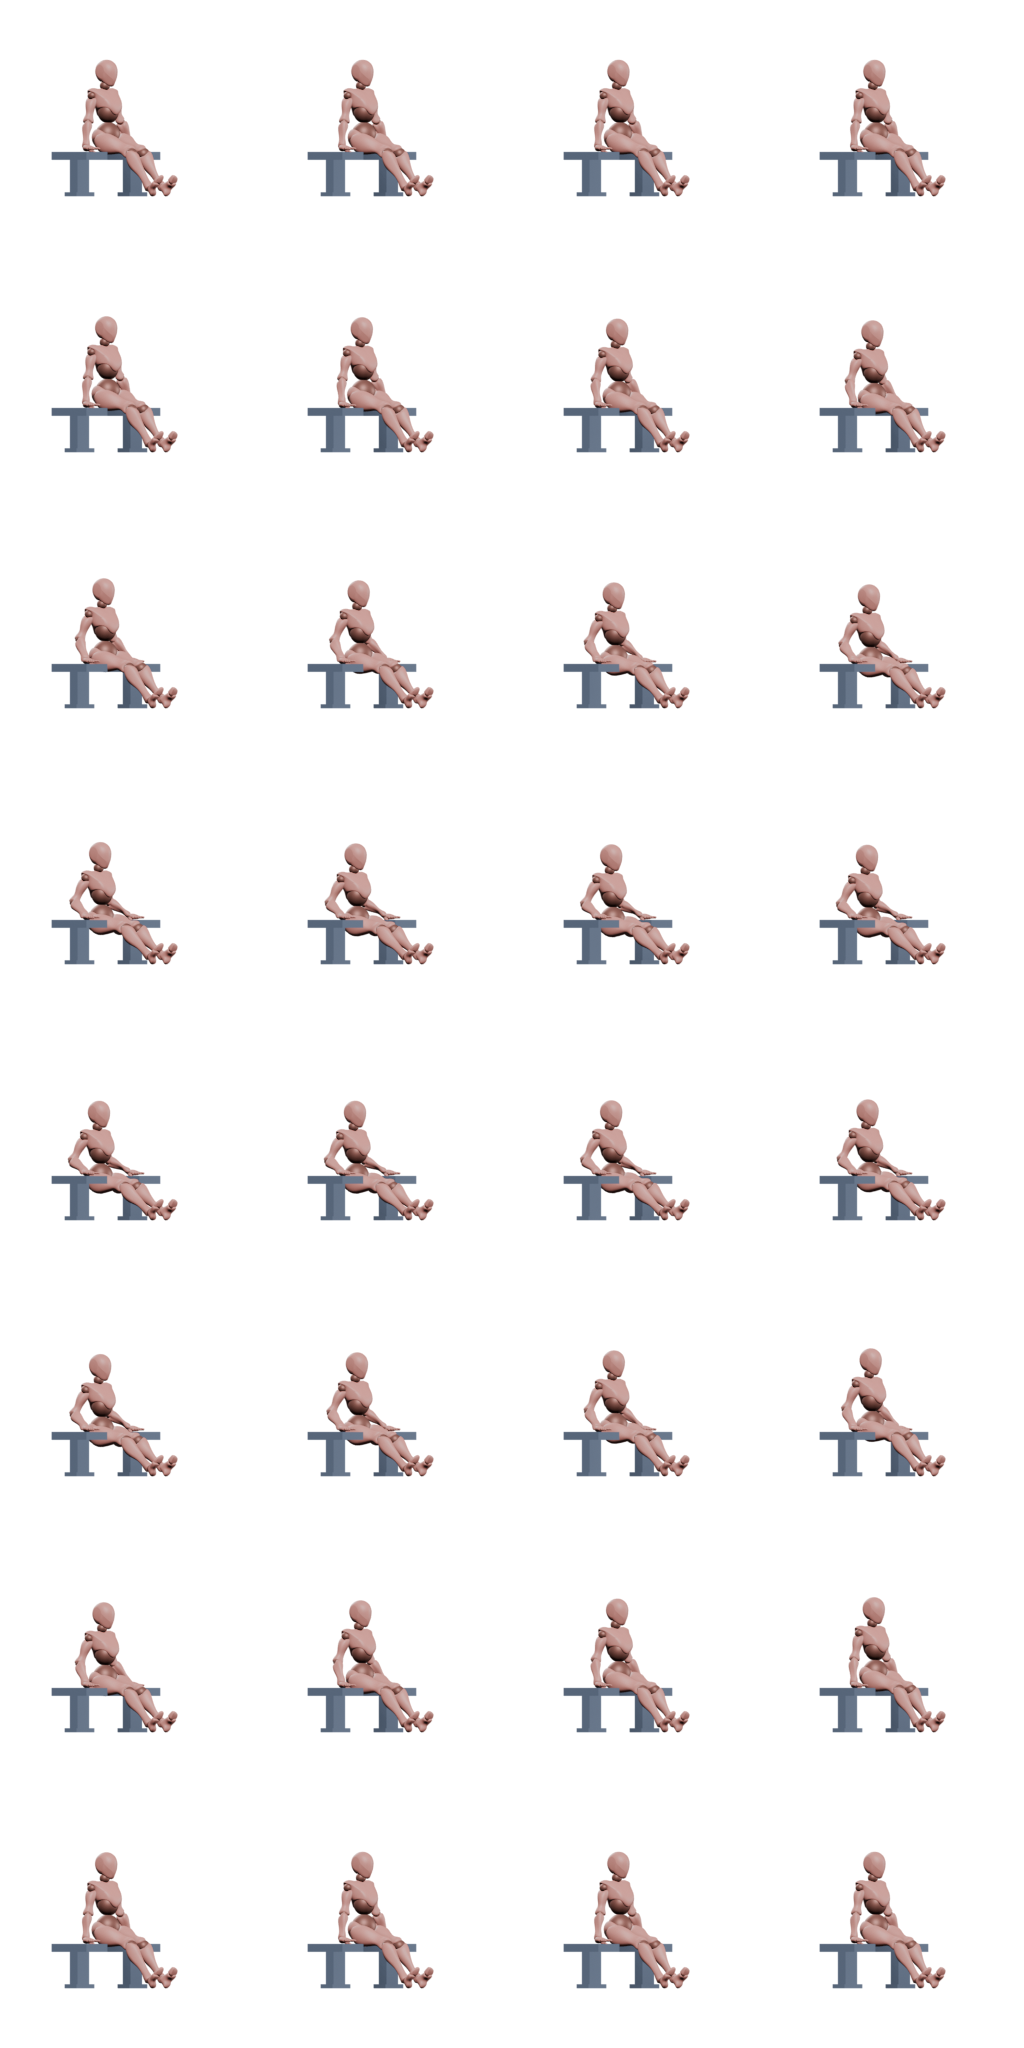
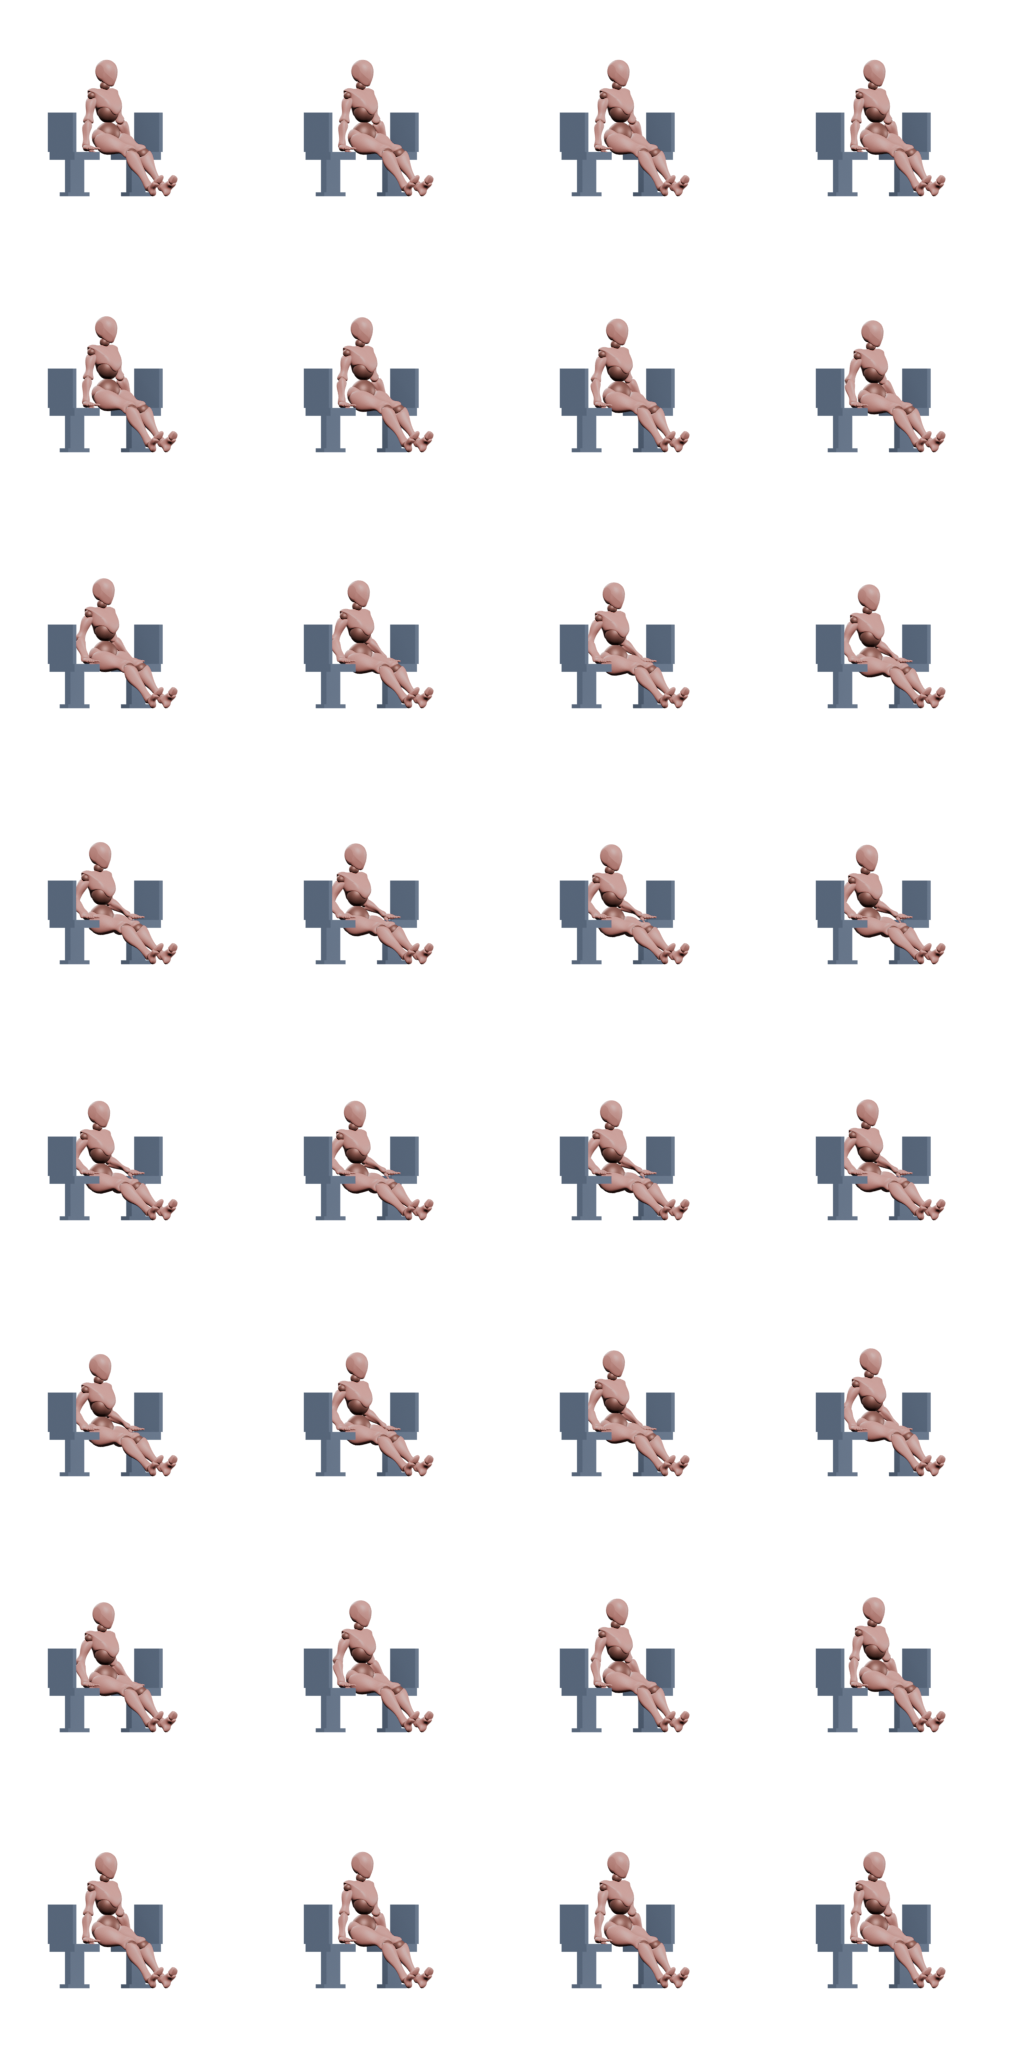
Dips entre deux chaises : deux chaises, avec dossier
Les deux assises se lisaient comme **un seul banc que le personnage
traverse**. Rien ne se croisait pourtant : mesuré dans la bande de
l'assise, le corps s'arrête à |x| = 0,37 et le meuble commençait à
0,26. C'est l'œil qui raccordait les deux plaques, l'une passant
devant le corps et l'autre derrière.

Un **dossier** de chaque côté ferme la silhouette et dit qu'il y a deux
meubles distincts, entre lesquels le corps est suspendu — ce qui est le
nom même de l'exercice. Panneau de quarante centimètres au bord
extérieur, la hauteur d'un dossier de chaise.

Les assises deviennent carrées — trente-six centimètres — et
s'écartent à quarante-quatre de l'axe : la main s'y pose à trente-deux,
soit six centimètres à l'intérieur du bord. Une plaque de cinquante
centimètres de long sur trente de large était un bout de banc ; celle-ci
est une chaise.

`_dessiner_le_banc` prend un paramètre `dossier` valant +1 ou -1, qui
dit de quel côté le poser.

Claude-Session: https://claude.ai/code/session_01NWeSsvViQDVGJHt91FTbcJ

diff --git a/scripts/rendre-geste.py b/scripts/rendre-geste.py
@@ -522,7 +522,7 @@ def poser_le_banc(banc, mini, maxi):
         longueur = banc.get("longueur", 0.55)
         milieu_y = banc["bord"] + longueur / 2
         return _dessiner_le_banc(banc.get("x", 0.0), milieu_y, longueur, hauteur,
-                                 banc.get("largeur", 0.34))
+                                 banc.get("largeur", 0.34), banc.get("dossier"))
 
     hauteur = banc
     tete, bassin = None, None
@@ -548,8 +548,19 @@ def poser_le_banc(banc, mini, maxi):
     return _dessiner_le_banc(centre_x, milieu_y, longueur, hauteur)
 
 
-def _dessiner_le_banc(centre_x, milieu_y, longueur, hauteur, largeur=0.34):
-    """Le meuble lui-même, une fois sa place connue."""
+def _dessiner_le_banc(centre_x, milieu_y, longueur, hauteur, largeur=0.34,
+                      dossier=None):
+    """Le meuble lui-même, une fois sa place connue.
+
+    `dossier` vaut `+1` ou `-1` et ajoute un **dossier** de ce côté-là, ce qui
+    fait d'un banc une chaise.
+
+    Ce n'est pas de la décoration. Deux assises nues posées de part et d'autre
+    d'un corps se lisent comme **un seul banc que le personnage traverse** :
+    l'une passe devant lui, l'autre derrière, et l'œil les raccorde. Un dossier
+    de chaque côté ferme la silhouette et dit qu'il y a deux meubles, entre
+    lesquels le corps est suspendu — ce qui est le nom même de l'exercice.
+    """
     epaisseur = 0.08
     bpy.ops.mesh.primitive_cube_add(
         size=1, location=(centre_x, milieu_y, hauteur - epaisseur / 2)
@@ -595,6 +606,20 @@ def _dessiner_le_banc(centre_x, milieu_y, longueur, hauteur, largeur=0.34):
     semelle = bpy.context.object
     semelle.scale = (banc.scale.x * 0.85, longueur * 0.34, 0.04)
     semelle.data.materials.append(matiere)
+
+    if dossier:
+        # Un panneau vertical au bord extérieur de l'assise, quarante
+        # centimètres au-dessus d'elle : la hauteur d'un dossier de chaise.
+        haut_dossier = 0.40
+        bpy.ops.mesh.primitive_cube_add(
+            size=1,
+            location=(centre_x + dossier * largeur / 2,
+                      milieu_y, hauteur + haut_dossier / 2),
+        )
+        panneau = bpy.context.object
+        panneau.scale = (0.05, longueur, haut_dossier)
+        panneau.data.materials.append(matiere)
+
     return banc
 
 

diff --git a/scripts/gestes_generes.py b/scripts/gestes_generes.py
@@ -2175,15 +2175,21 @@ GESTES = {
         "ancrage": False,
         "hauteur": 0.626,
         # Deux chaises, une de chaque côté, plus étroites qu'un banc.
+        # Deux **chaises**, dossier vers l'extérieur, et le dossier n'est pas
+        # décoratif : deux assises nues posées de part et d'autre d'un corps se
+        # lisent comme un seul banc que le personnage traverse — l'une passe
+        # devant lui, l'autre derrière, et l'œil les raccorde. C'est ce qu'a
+        # donné la première version, où rien ne se croisait pourtant : mesuré,
+        # le corps s'arrête à |x| = 0,37 et l'assise commence à 0,26.
+        #
+        # Assise de trente-six centimètres carrés, à quarante-quatre de l'axe :
+        # la main s'y pose à trente-deux, soit six centimètres à l'intérieur du
+        # bord, et le dossier ferme la silhouette de chaque côté.
         "banc": [
-            {"hauteur": 0.45, "bord": -0.32, "longueur": 0.50, "x": +0.38,
-             "largeur": 0.30},
-            {"hauteur": 0.45, "bord": -0.32, "longueur": 0.50, "x": -0.38,
-             "largeur": 0.30},
-            # Trente-huit centimètres d'axe, pour trente de large : le bord
-            # intérieur tombe à 0,23 et la cuisse s'arrête à 0,19. Quatre
-            # centimètres de jeu. À trente-quatre, l'assise et la cuisse se
-            # touchaient.
+            {"hauteur": 0.45, "bord": -0.24, "longueur": 0.36, "x": +0.44,
+             "largeur": 0.36, "dossier": +1},
+            {"hauteur": 0.45, "bord": -0.24, "longueur": 0.36, "x": -0.44,
+             "largeur": 0.36, "dossier": -1},
         ],
         "bassin": [(0, -0.100, 0.00), (0, +0.007, -0.173)],
         "pauses": [0.16, 0.04],
